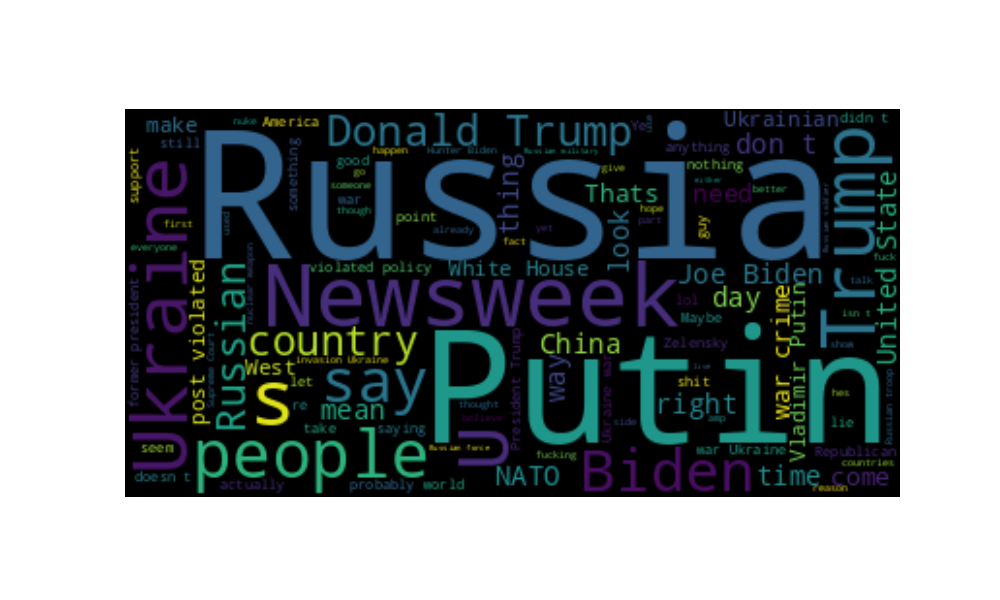
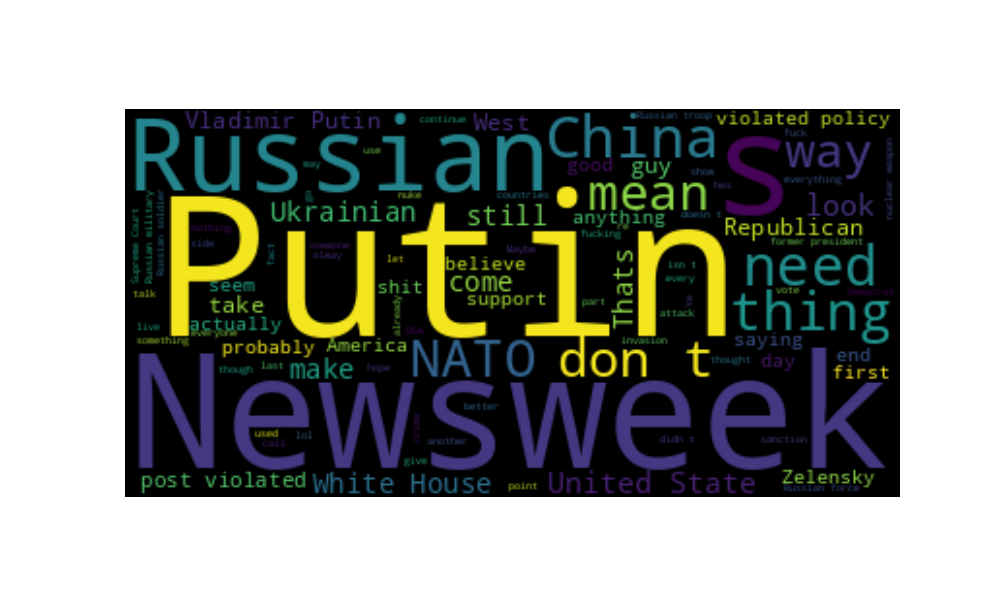
Updated horizontal analysis with stopwords.

diff --git a/horizontal/horizontal_analysis.py b/horizontal/horizontal_analysis.py
@@ -8,8 +8,16 @@ import os
 
 from wordcloud import WordCloud
 
+
+def load_additional_stop_words(file_path):
+    with open(file_path, 'r') as f:
+        stop_words = f.read().splitlines()
+    return stop_words
+
+
+# Load the stop words
+additional_stop_words = load_additional_stop_words('../additional_stop_words.txt')
 stop_words = set(stopwords.words('english'))
-additional_stop_words = ['would', 'could', 'get', 'like', '-', 'one', 'also', 'think', 'much', 'know', 'said', 'going', 'abc', 'want', 'back', 'dont', 'even', 'see', 'well', 'really', 'many']
 stop_words.update(additional_stop_words)
 
 def load_and_process_data(paths):
